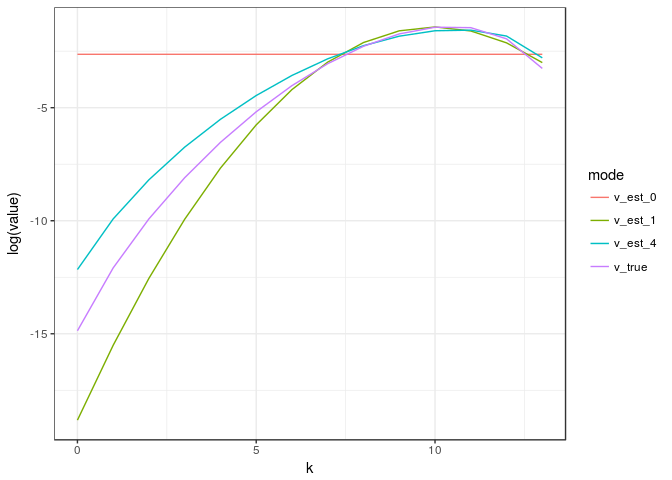
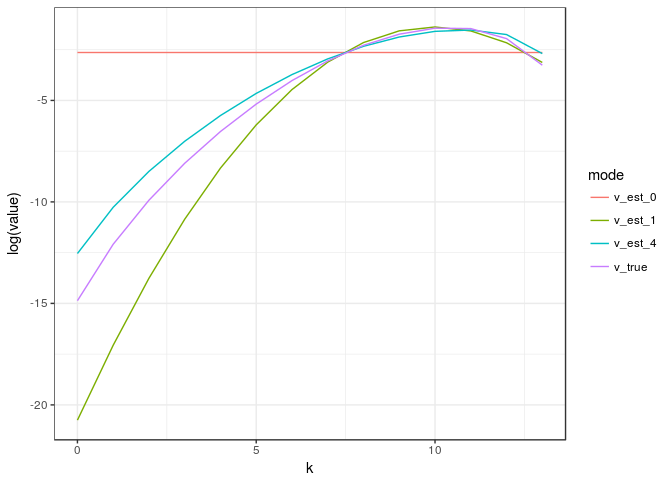
clean-up

Changed region(s): [[0.125, 0.0312, 0.8125, 0.6562], [0.0625, 0.4062, 0.0938, 0.4688], [0.0625, 0.1875, 0.0938, 0.2188]]

diff --git a/README.md b/README.md
@@ -66,20 +66,20 @@ pbichibarsq(xmat, v)
 
 # draw samples
 rchibarsq(10,v)
-#>  [1]  0.80460563  4.65427572  0.05719339 15.05207977  5.97042576
-#>  [6]  0.74863863  3.82451112  1.79022563  3.51235577  2.26288724
+#>  [1] 2.843264 0.000000 1.258521 6.055054 3.573442 4.959071 3.218110
+#>  [8] 2.262676 1.301512 5.546882
 rbichibarsq(10,v)
-#>            [,1]      [,2]
-#>  [1,]  0.000000  5.590798
-#>  [2,]  2.017354  3.942561
-#>  [3,]  2.922421  3.313866
-#>  [4,]  5.238616  0.000000
-#>  [5,]  0.000000  2.799497
-#>  [6,]  1.808738  9.073667
-#>  [7,]  1.521149  2.133476
-#>  [8,] 10.609806  4.007467
-#>  [9,]  0.000000 14.954660
-#> [10,]  1.200098  3.656913
+#>            [,1]       [,2]
+#>  [1,] 10.886831 0.45064990
+#>  [2,]  0.958643 7.41394692
+#>  [3,] 11.757422 1.14965181
+#>  [4,]  4.899369 0.00000000
+#>  [5,]  5.240950 5.06014820
+#>  [6,]  2.648986 3.00186654
+#>  [7,]  2.072915 2.29664732
+#>  [8,]  5.952617 0.03521958
+#>  [9,]  9.566093 6.58476597
+#> [10,] 10.048982 0.73872589
 ```
 
 ### Special classes of cones:
@@ -108,41 +108,41 @@ prod_ivols( list(circ_ivols(4,pi/4), circ_ivols(4,pi/4)) )
 # computing the semiaxes of the ellipsoidal cone given by the linear image of the Lorentz cone
 A <- matrix(sample(1:25),5,5)
 ellips_semiax(A)
-#> [1] 3.3729030 1.3909515 0.9096648 0.4252038
+#> [1] 5.4936348 2.5152273 1.0217046 0.4603506
 
 # draw samples of the bivariate chi-bar-squared distribution of the ellipsoidal cone
 ellips_rbichibarsq(10, A)
 #> $semiax
-#> [1] 3.3729030 1.3909515 0.9096648 0.4252038
+#> [1] 5.4936348 2.5152273 1.0217046 0.4603506
 #> 
 #> $samples
-#>               [,1]       [,2]
-#>  [1,] 1.082777e-01  2.8594158
-#>  [2,] 9.057058e-01  1.4330456
-#>  [3,] 4.378305e-01  0.2584739
-#>  [4,] 3.497686e+00  4.0218713
-#>  [5,] 8.863945e-01  1.2753309
-#>  [6,] 6.481333e+00 -2.4307809
-#>  [7,] 2.447830e+00  2.5647325
-#>  [8,] 7.488261e+00  1.9254086
-#>  [9,] 3.114847e-01  0.8093269
-#> [10,] 3.076326e-18 12.0337212
+#>             [,1]        [,2]
+#>  [1,] 0.01549001  1.17304365
+#>  [2,] 3.93548956 -0.08366188
+#>  [3,] 1.98368315 -0.02944172
+#>  [4,] 0.01028817  9.87155212
+#>  [5,] 1.42997317  3.53078287
+#>  [6,] 0.36374561  3.42987657
+#>  [7,] 3.09110941 -0.47055243
+#>  [8,] 0.24024672  2.98764430
+#>  [9,] 0.66846960  3.64891017
+#> [10,] 2.04647270  0.52334397
 
 # compute the matrix of the product of some Weyl chambers
 weyl_matrix( rep(3,4), c("BC","BCp","D","Dp"), product=TRUE)
 #>       [,1] [,2] [,3] [,4] [,5] [,6] [,7] [,8] [,9] [,10] [,11] [,12]
-#>  [1,]   -1    1    0    0    0    0    0    0    0   0.0   0.0     0
-#>  [2,]    0   -1    1    0    0    0    0    0    0   0.0   0.0     0
-#>  [3,]    0    0   -1    0    0    0    0    0    0   0.0   0.0     0
-#>  [4,]    0    0    0    1    0    0    0    0    0   0.0   0.0     0
-#>  [5,]    0    0    0    1    1    0    0    0    0   0.0   0.0     0
-#>  [6,]    0    0    0    1    1    1    0    0    0   0.0   0.0     0
-#>  [7,]    0    0    0    0    0    0   -1    1    0   0.0   0.0     0
-#>  [8,]    0    0    0    0    0    0   -1   -1    1   0.0   0.0     0
-#>  [9,]    0    0    0    0    0    0    0    0   -1   0.0   0.0     0
-#> [10,]    0    0    0    0    0    0    0    0    0   0.5  -0.5     0
-#> [11,]    0    0    0    0    0    0    0    0    0   0.5   0.5     0
-#> [12,]    0    0    0    0    0    0    0    0    0   0.5   0.5     1
+#>  [1,]   -1    1    0    0    0    0    0    0    0     0     0     0
+#>  [2,]    0   -1    1    0    0    0    0    0    0     0     0     0
+#>  [3,]    0    0   -1    0    0    0    0    0    0     0     0     0
+#>  [4,]    0    0    0    1    0    0    0    0    0     0     0     0
+#>  [5,]    0    0    0    1    1    0    0    0    0     0     0     0
+#>  [6,]    0    0    0    1    1    1    0    0    0     0     0     0
+#>  [7,]    0    0    0    0    0    0   -1    1    0     0     0     0
+#>  [8,]    0    0    0    0    0    0   -1   -1    1     0     0     0
+#>  [9,]    0    0    0    0    0    0    0    0   -1     0     0     0
+#> [10,]    0    0    0    0    0    0    0    0    0     1    -1     0
+#> [11,]    0    0    0    0    0    0    0    0    0     1     1     0
+#> [12,]    0    0    0    0    0    0    0    0    0     1     1     1
 
 # compute the corresponding intrinsic volumes of the above cone
 weyl_ivols( rep(3,4), c("BC","BCp","D","Dp"), product=TRUE)
@@ -215,16 +215,16 @@ polyh_reduce_ineq(A)
 # (setting reduce to FALSE since otherwise polyh_reduce_*** would be called)
 polyh_rivols_gen(10, A, reduce=FALSE)
 #> $samples
-#>  [1] 1 1 0 0 0 1 0 0 0 0
+#>  [1] 1 0 1 1 0 0 0 0 1 0
 #> 
 #> $multsamp
-#> [1] 7 3 0 0 0 0
+#> [1] 6 4 0 0 0 0
 polyh_rivols_ineq(10, A, reduce=FALSE)
 #> $samples
-#>  [1] 5 4 4 5 4 5 5 5 4 5
+#>  [1] 4 5 4 5 5 5 4 5 3 4
 #> 
 #> $multsamp
-#> [1] 0 0 0 0 4 6
+#> [1] 0 0 0 1 4 5
 
 # computing the Bayesian posterior with Dirichlet prior (analytically solvable)
 # we sample from a product of Weyl chambers to have the true values at hand
@@ -241,18 +241,18 @@ v_est_med <- bayes_est$post_marg_quant(0:12,0.5)
 v_est_med / v
 #> Warning in v_est_med/v: longer object length is not a multiple of shorter
 #> object length
-#>  [1] 3.794281e-05 4.840392e-02 2.840646e-01 9.523162e-01 1.703997e+00
-#>  [6] 2.096752e+00 1.703997e+00 8.610932e-01 2.994985e-01 3.183253e-02
-#> [11] 3.794281e-05 8.330777e-05 3.794281e-05
+#>  [1] 1.466996e-02 5.421978e-02 3.208327e-01 7.918056e-01 1.682817e+00
+#>  [6] 2.116325e+00 1.610285e+00 9.504306e-01 3.611278e-01 7.800655e-02
+#> [11] 3.962430e-05 7.967436e-05 3.962430e-05
 sum( (v_est_med-v)^2 )
 #> Warning in v_est_med - v: longer object length is not a multiple of shorter
 #> object length
-#> [1] 0.1415845
+#> [1] 0.1361754
 
 # display boxplot of posterior distribution, overlayed with true values
 data <- as.data.frame( bayes_est$post_samp(1e4) )
 colnames(data) <- paste0(rep("V",13),as.character(0:12))
-boxplot( value~key, tidyr::gather( data, factor_key=TRUE ) )
+boxplot( value~key, gather( data, factor_key=TRUE ) )
 lines(1+0:12, v_true, col="red")
 lines(1+0:12, v_est_med, col="blue")
 ```
@@ -293,13 +293,12 @@ ggplot(as_tibble(m_samp), aes(V1,V2)) + geom_point(alpha=.02) +
 
 ``` r
 # estimate the moments of the intrinsic volumes, compare with true values
-est <- estim_statdim_var(d, m_samp)
-print(est)
+est <- estim_statdim_var(d, m_samp); est
 #> $delta
-#> [1] 9.989176
+#> [1] 9.992823
 #> 
 #> $var
-#> [1] 2.791546
+#> [1] 2.501511
 list( statdim_true=sum((0:d)*v_true),
       var_true=sum((0:d)^2*v_true)-sum((0:d)*v_true)^2 )
 #> $statdim_true
@@ -319,13 +318,13 @@ v_init <- tibble( v_est_0 = init_ivols(13,0),
 # compute log-likelihoods of initial estimates
 lapply( v_init, loglike_ivols, data, 0)
 #> $v_est_0
-#> [1] -5.481136
+#> [1] -5.474894
 #> 
 #> $v_est_1
-#> [1] -4.976702
+#> [1] -4.968283
 #> 
 #> $v_est_4
-#> [1] -4.980951
+#> [1] -4.975375
 
 # plot the different estimates and their logarithms
 tib_plot <- v_init %>% add_column(v_true=v_true,.before=1) %>%
@@ -371,6 +370,7 @@ We can see that the estimate after 200 iterations is quite accurate for the larg
 
 ``` r
 # obtain large sample
+set.seed(1234)
 m_samp_large <- rbichibarsq(1e6, v_true)
 em <- estim_em( d, m_samp_large, N=200 )
 
